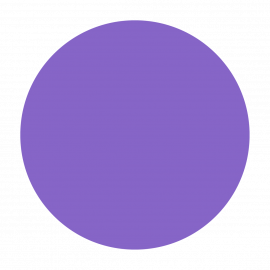
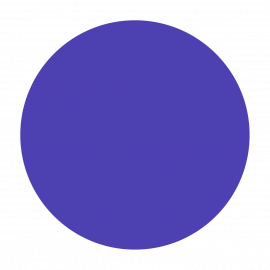
correct color and url

diff --git a/assets/js/favicon.js b/assets/js/favicon.js
@@ -3,29 +3,29 @@
 module.exports = {
   favicon: function () {
     return [
-    	{ rel: 'apple-touch-icon-precomposed', sizes: '57x57', href: '/apple-touch-icon-57x57.png' },
-      { rel: 'apple-touch-icon-precomposed', sizes: '114x114', href: '/apple-touch-icon-114x114.png' },
-      { rel: 'apple-touch-icon-precomposed', sizes: '72x72', href: '/apple-touch-icon-72x72.png' },
-      { rel: 'apple-touch-icon-precomposed', sizes: '144x144', href: '/apple-touch-icon-144x144.png' },
-      { rel: 'apple-touch-icon-precomposed', sizes: '60x60', href: '/apple-touch-icon-60x60.png' },
-      { rel: 'apple-touch-icon-precomposed', sizes: '120x120', href: '/apple-touch-icon-120x120.png' },
-      { rel: 'apple-touch-icon-precomposed', sizes: '76x76', href: '/apple-touch-icon-76x76.png' },
-      { rel: 'apple-touch-icon-precomposed', sizes: '152x152', href: '/apple-touch-icon-152x152.png' },
-      { rel: 'icon', type: 'image/png', href: '/favicon-196x196.png', sizes: '196x196' },
-      { rel: 'icon', type: 'image/png', href: '/favicon-96x96.png', sizes: '96x96' },
-      { rel: 'icon', type: 'image/png', href: '/favicon-32x32.png', sizes: '32x32' },
-      { rel: 'icon', type: 'image/png', href: '/favicon-16x16.png', sizes: '16x16' },
-      { rel: 'icon', type: 'image/png', href: '/favicon-128.png', sizes: '128x128' }
+    	{ rel: 'apple-touch-icon-precomposed', sizes: '57x57', href: './apple-touch-icon-57x57.png' },
+      { rel: 'apple-touch-icon-precomposed', sizes: '114x114', href: './apple-touch-icon-114x114.png' },
+      { rel: 'apple-touch-icon-precomposed', sizes: '72x72', href: './apple-touch-icon-72x72.png' },
+      { rel: 'apple-touch-icon-precomposed', sizes: '144x144', href: './apple-touch-icon-144x144.png' },
+      { rel: 'apple-touch-icon-precomposed', sizes: '60x60', href: './apple-touch-icon-60x60.png' },
+      { rel: 'apple-touch-icon-precomposed', sizes: '120x120', href: './apple-touch-icon-120x120.png' },
+      { rel: 'apple-touch-icon-precomposed', sizes: '76x76', href: './apple-touch-icon-76x76.png' },
+      { rel: 'apple-touch-icon-precomposed', sizes: '152x152', href: './apple-touch-icon-152x152.png' },
+      { rel: 'icon', type: 'image/png', href: './favicon-196x196.png', sizes: '196x196' },
+      { rel: 'icon', type: 'image/png', href: './favicon-96x96.png', sizes: '96x96' },
+      { rel: 'icon', type: 'image/png', href: './favicon-32x32.png', sizes: '32x32' },
+      { rel: 'icon', type: 'image/png', href: './favicon-16x16.png', sizes: '16x16' },
+      { rel: 'icon', type: 'image/png', href: './favicon-128.png', sizes: '128x128' }
     ]
   },
   msapplication: function () {
     return [
     	{ name: 'msapplication-TileColor', content: '#FFFFFF' },
-      { name: 'msapplication-TileImage', content: '/mstile-144x144.png' },
-      { name: 'msapplication-square70x70logo', content: '/mstile-70x70.png' },
-      { name: 'msapplication-square150x150logo', content: '/mstile-150x150.png' },
-      { name: 'msapplication-wide310x150logo', content: '/mstile-310x150.png' },
-      { name: 'msapplication-square310x310logo', content: '/mstile-310x310.png' }
+      { name: 'msapplication-TileImage', content: './mstile-144x144.png' },
+      { name: 'msapplication-square70x70logo', content: './mstile-70x70.png' },
+      { name: 'msapplication-square150x150logo', content: './mstile-150x150.png' },
+      { name: 'msapplication-wide310x150logo', content: './mstile-310x150.png' },
+      { name: 'msapplication-square310x310logo', content: './mstile-310x310.png' }
     ]
   }
 }
